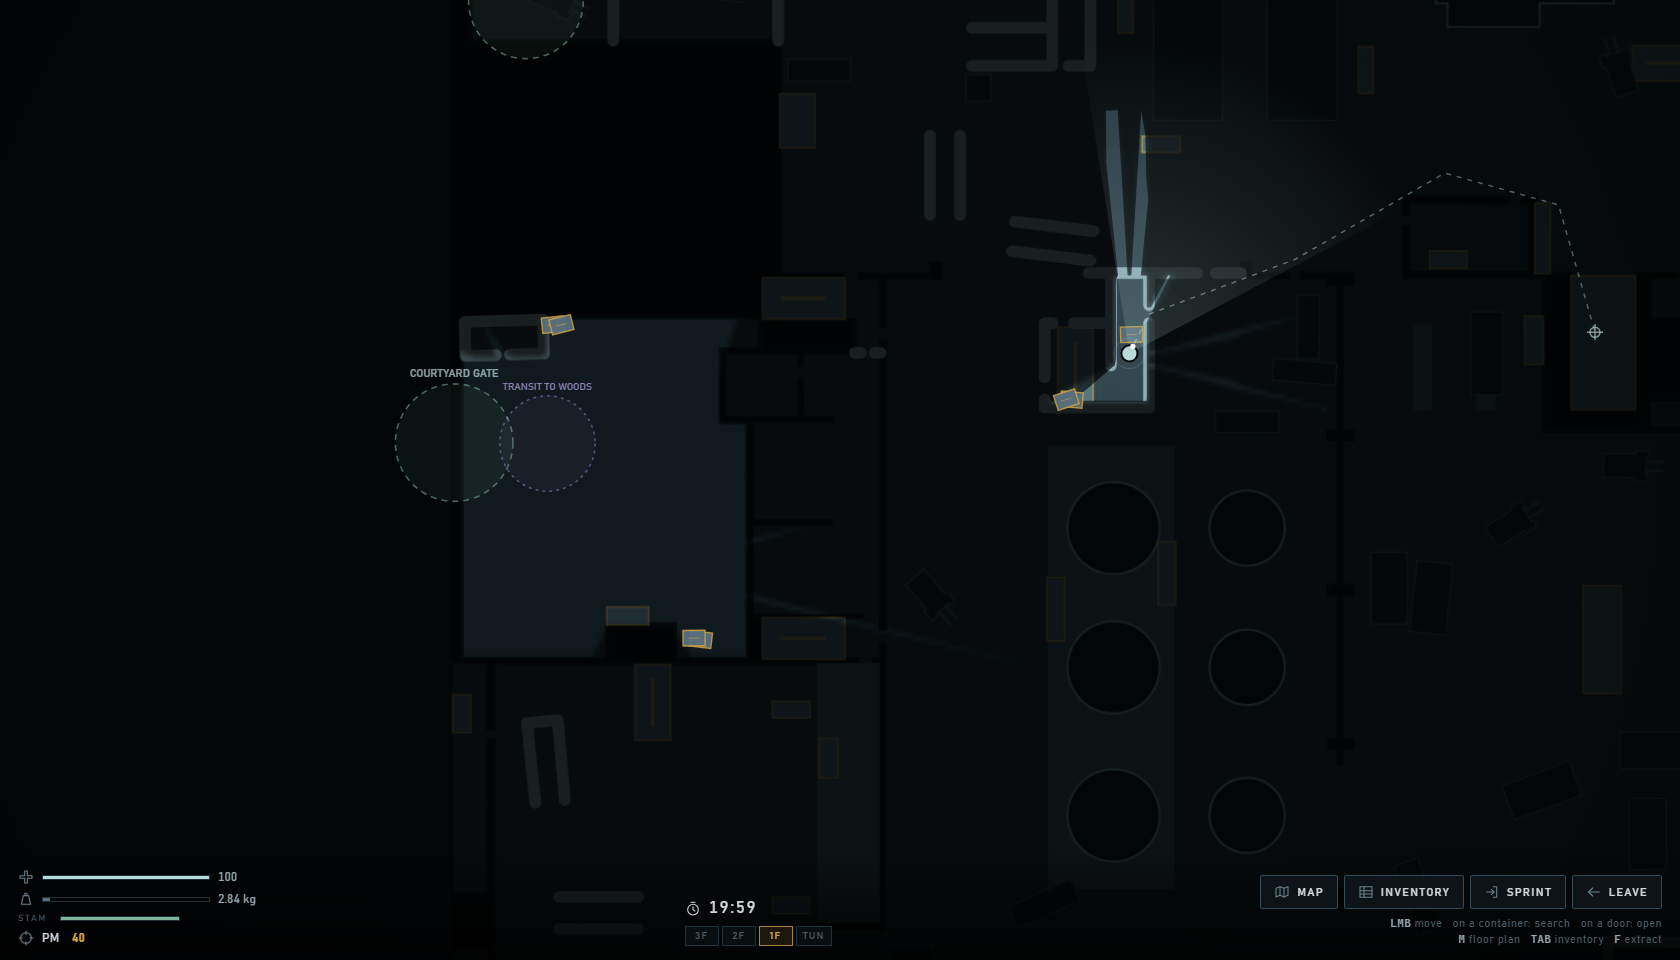
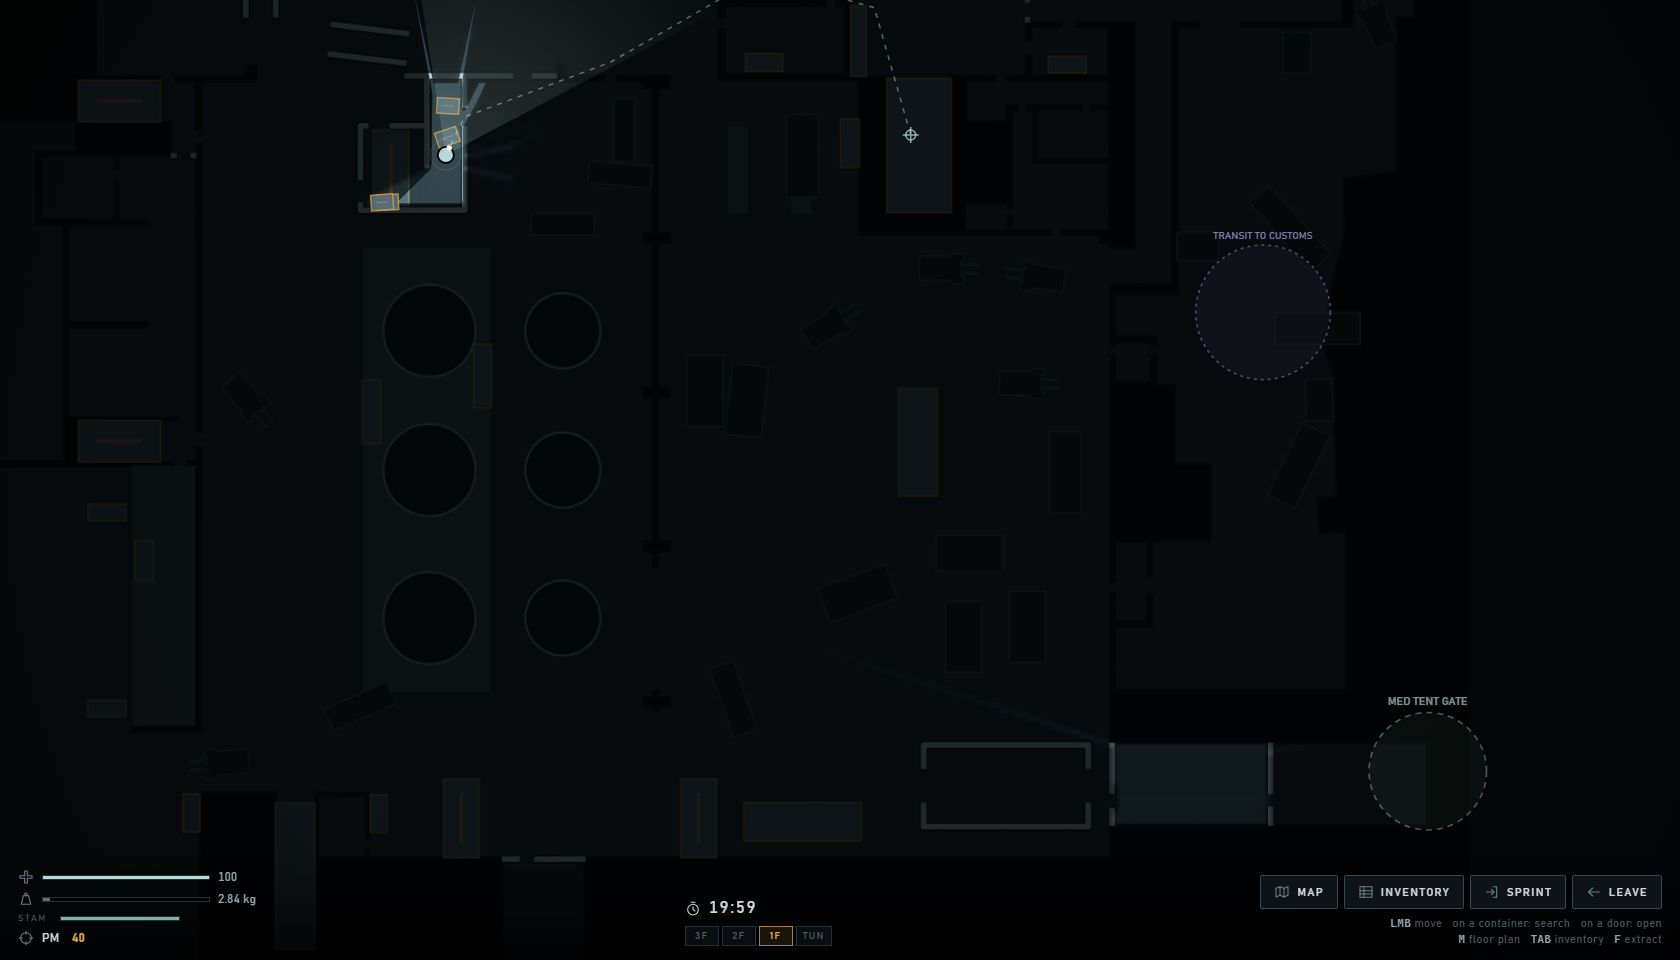
Draw a wall as thick as it actually is
The plant was hard to read because every wall was drawn at twice its real
thickness and then had the ends rounded off past where they stop.

The nav grid blocks a 0.44-unit band around each wall centreline. The
renderer was stroking 0.9, and with a round cap on top of that, which
adds half a line width beyond each end of a polyline — 0.45 units of
overshoot straight into the gaps between wall segments. Those gaps are
the doorways. A metre-wide door came out as a hairline, and rooms merged
into one another behind fat grey bars.

There is one thickness now, WALL_W, and the nav grid, the raid view and
the floor plan all take it from the same place: what stops you and what
you see are the same wall. Butt caps, so a wall ends where it ends.

Thinner had to stay legible, so the contrast comes from a dark casing
under a brighter core rather than from bulk — walls are now the lightest
thing on the plan, which is what tells them apart from the machinery.

diff --git a/src/raid/renderer.js b/src/raid/renderer.js
@@ -8,6 +8,7 @@
 // =========================================================
 
 import { clamp } from '../core/util.js';
+import { WALL_W } from './nav.js';
 
 const PAL = {
   void: '#05080a',
@@ -21,7 +22,7 @@ const PAL = {
   obstacleEdge: '#41565f',
   building: '#101b22',
   buildingEdge: '#6e8f92',
-  wall: '#7f9aa3',
+  wall: '#a7c6cd',
   outline: '#0b1114',
   grid: 'rgba(184,219,217,.045)',
   doorShut: '#c98f4a',
@@ -156,14 +157,26 @@ export class Renderer {
       g.strokeStyle = PAL.buildingEdge; g.lineWidth = 2.2; g.stroke();
     }
 
-    g.strokeStyle = PAL.wall;
-    g.lineWidth = 0.9 * s;
-    g.lineCap = 'round';
+    // Walls, drawn as thick as they actually are and no thicker.
+    //
+    // Two things used to make the plant unreadable. The stroke was 0.9 units
+    // where the nav grid only blocks 0.44, so every wall was drawn at double
+    // its real thickness; and a round cap adds half a line width past each end
+    // of a polyline, which is 0.45 units of overshoot into the very gaps that
+    // are the doorways. A metre-wide door came out looking like a hairline.
+    //
+    // So: butt caps, the real thickness, and the contrast made up with a dark
+    // casing under a bright core rather than with bulk.
+    g.lineCap = 'butt';
     g.lineJoin = 'round';
-    for (const line of L.walls || []) {
-      g.beginPath();
-      line.forEach((p, i) => (i ? g.lineTo(p[0] * s, p[1] * s) : g.moveTo(p[0] * s, p[1] * s)));
-      g.stroke();
+    for (const [width, colour] of [[WALL_W + 0.2, PAL.outline], [WALL_W, PAL.wall]]) {
+      g.strokeStyle = colour;
+      g.lineWidth = width * s;
+      for (const line of L.walls || []) {
+        g.beginPath();
+        line.forEach((p, i) => (i ? g.lineTo(p[0] * s, p[1] * s) : g.moveTo(p[0] * s, p[1] * s)));
+        g.stroke();
+      }
     }
 
     // persistent fog: black everywhere, punched out as the player sees places

diff --git a/src/ui/floorplan.js b/src/ui/floorplan.js
@@ -13,6 +13,7 @@
 
 import { $, el } from '../core/util.js';
 import { areaAt } from '../data/maps.js';
+import { WALL_W } from '../raid/nav.js';
 
 const PAD = 3;                    // svg units of margin around the drawing
 
@@ -22,7 +23,8 @@ const PLAN = {
   floorEdge: '#5c7d86',
   solid: '#101c22',
   solidEdge: '#3d545d',
-  wall: '#9fc0c6',
+  wall: '#c3dde2',
+  wallCase: '#050b0e',
   stairs: '#d9a441',
   grid: 'rgba(159,192,198,.07)',
   text: '#8fa9ae',
@@ -169,14 +171,18 @@ function bake(level, scale) {
     g.strokeStyle = PLAN.stairs; g.lineWidth = 1; g.stroke();
   }
 
-  g.strokeStyle = PLAN.wall;
-  g.lineWidth = Math.max(1.4, 0.42 * scale);
-  g.lineCap = 'round';
+  // the real wall thickness, with butt caps so the doorways between them stay
+  // the width they are instead of being capped shut
+  g.lineCap = 'butt';
   g.lineJoin = 'round';
-  for (const line of L.walls || []) {
-    g.beginPath();
-    line.forEach((p, i) => (i ? g.lineTo(X(p[0]), Y(p[1])) : g.moveTo(X(p[0]), Y(p[1]))));
-    g.stroke();
+  for (const [width, colour] of [[WALL_W + 0.18, PLAN.wallCase], [WALL_W, PLAN.wall]]) {
+    g.strokeStyle = colour;
+    g.lineWidth = Math.max(width === WALL_W ? 1.2 : 1.8, width * scale);
+    for (const line of L.walls || []) {
+      g.beginPath();
+      line.forEach((p, i) => (i ? g.lineTo(X(p[0]), Y(p[1])) : g.moveTo(X(p[0]), Y(p[1]))));
+      g.stroke();
+    }
   }
 
   // area names, so the plan reads as places rather than shapes

diff --git a/src/raid/nav.js b/src/raid/nav.js
@@ -9,7 +9,13 @@
 // =========================================================
 
 export const CELL = 0.35;         // svg units per nav cell
-const WALL_HALF = 0.22;           // half thickness stamped for wall centrelines
+/**
+ * How thick a wall is. This is the one number for it: the nav grid stamps it,
+ * the renderer draws it, and the floor plan draws it, so what blocks the
+ * player and what the player sees are the same wall.
+ */
+export const WALL_W = 0.44;
+const WALL_HALF = WALL_W / 2;     // half thickness stamped for wall centrelines
 const AGENT_PAD = 0.34;           // how far the player's centre stays off geometry
 
 export class NavGrid {
